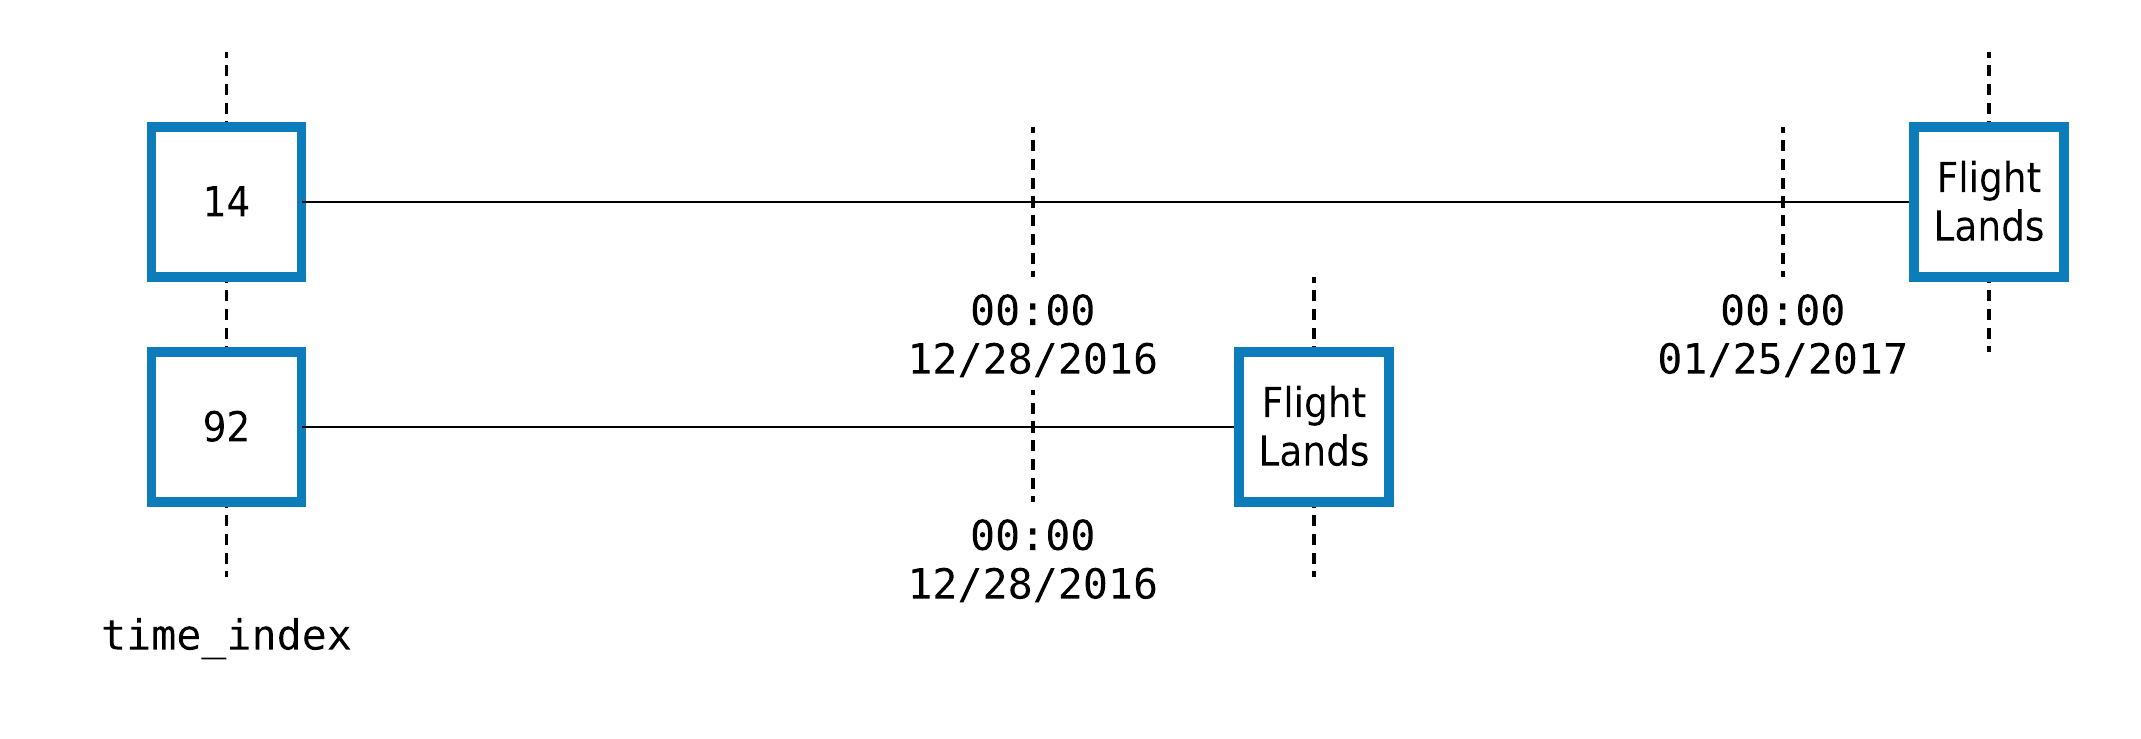
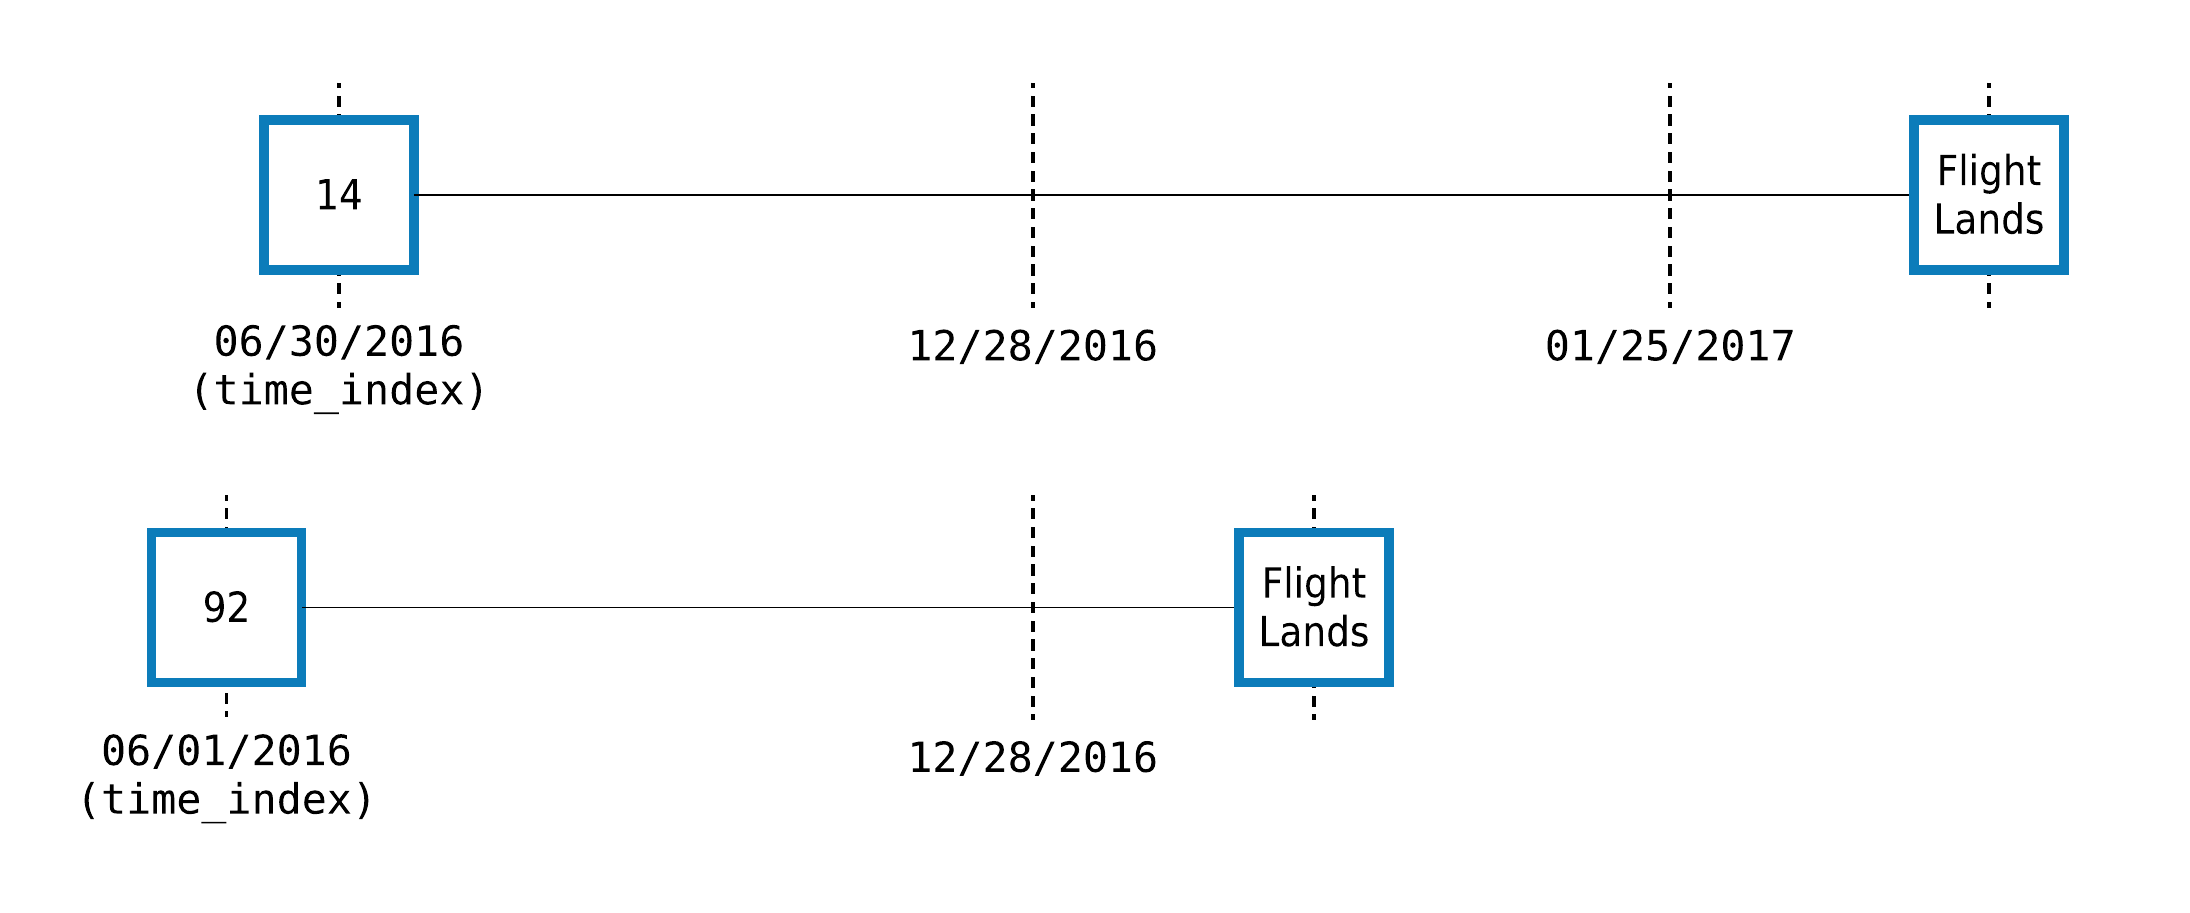
Re-order sections

diff --git a/featuretools/demo/mock_customer.py b/featuretools/demo/mock_customer.py
@@ -25,7 +25,7 @@ def load_mock_customer(n_customers=5, n_products=5, n_sessions=35, n_transaction
                    for _ in range(n_customers)]
 
     customers_df = pd.DataFrame({"customer_id": range(1, n_customers + 1)})
-    customers_df["zip_code"] = choice(["60091", "02139"], n_customers,)
+    customers_df["zip_code"] = choice(["60091", "13244"], n_customers,)
     customers_df["join_date"] = pd.Series(join_dates).dt.round('1s')
     customers_df["date_of_birth"] = pd.Series(birth_dates).dt.round('1d')
 

diff --git a/docs/source/automated_feature_engineering/handling_time.rst b/docs/source/automated_feature_engineering/handling_time.rst
@@ -28,7 +28,7 @@ The first section shows how to handle the complexities that can come up when ass
 
 .. _representing-time:
 
-Representing time in an EntitySet
+Introduction to the Time Index
 ----------------------------------------------------------
 We'll start with the :func:`Mock Customer <demo.load_mock_customer>` entityset.
 
@@ -44,12 +44,56 @@ The ``transactions`` entity has one row for every transaction and a ``transactio
 
     es_mc['customers'].df
 
-Here we have two time columns ``join_date`` and ``date_of_birth``. While either column might be useful for making features, the ``join_date`` should be used as the time index. It represents when the data owner learns about the existence of a given customer. Specifically: *the time index is the first time anything from a row can be known to the dataset owner*. Rows are treated as non-existant prior to the time index. 
+Here we have two time columns ``join_date`` and ``date_of_birth``. While either column might be useful for making features, the ``join_date`` should be used as the time index. It represents when the data owner learns about the existence of a given customer. Generically: *the time index is defined as the first time anything from a row can be known to the dataset owner*. Rows are treated as non-existent prior to the time index. 
 
-In databases, information tends to be written after an event has passed. This can be problematic on the machine learning side: it's often necessary to ignore entire columns to avoid leaking labels. In the main example of this section, we look at how time is used in a dataset from the US Department of Transportation on domestic flights.
+.. important::
 
-Representing time in the Flight Dataset
-~~~~~~~~~~~~~~~~~~~~~~~~~~~~~~~~~~~~~~~~
+    The **time index** is defined as first time anything from a row can be known to the dataset owner.
+
+In databases, information tends to be written after an event has passed. This can be problematic on the machine learning side: it's often necessary to ignore entire columns to avoid leaking labels. If you're interested in learning more, the :ref:`advanced time index <flight-ti>` section below explores how time can used with a dataset from the US Department of Transportation on domestic flights. Before we get there, we're going to show how to make predictions using these time indices.
+
+.. _cutoff-time:
+
+Introduction to Cutoff Times
+--------------------------------------------
+
+For a given :class:`EntitySet <EntitySet>`, it's possible to provide time indices and secondary time that are correct. There is a real time when a row first becomes valid for use and the time index should reflect that reality. In contrast, **there is no "correct" way to make predictions**. There are many valid questions that can be asked at many valid times and the differences between them are philosophical rather than mechanical.
+
+A **cutoff_time** dataframe is a concise way of passing complicated instructions to :func:`Deep Feature Synthesis <dfs>` (DFS). Each row contains a reference id, a time and optionally, a label. For every unique id-time pair, we will create a row of the feature matrix.
+
+.. important::
+
+     A **cutoff_time** dataframe is a concise way of passing complicated instructions to Deep Feature Synthesis.
+
+Let's do a short example. We want to predict whether customers ``1``, ``2`` and ``3`` will spend $500 after ``04:00`` on January 1 by the end of the day. The ``time`` column emulates the way a human would make a historical prediction, it is an instruction to not use any future information constructing that row even if we have it in our entityset. In this case, we're making predictions for all three customers at the same time, ``2014-1-1 04:00`` so we set that as the second column. We have also checked that ``1`` and ``2`` will spend $500 while customer ``3`` will not, so we include those labels as a third column.
+
+.. image:: ../images/retail_ct.png
+   :width: 400 px
+   :alt: retail cutoff time diagram
+   :align: center
+
+We will use all of the information between the ``time_index`` of rows ``1``, ``2`` and ``3`` and the prediction time ``04:00 2014-1-1`` to make predictions about what will happen for the rest of the day.
+
+.. ipython:: python
+
+    ct = pd.DataFrame({'customer_id': [1, 2, 3], 
+                       'time': pd.to_datetime(['2014-1-1 04:00', 
+                                               '2014-1-1 04:00',
+                                               '2014-1-1 04:00']),
+                       'label': [True, True, False]})
+    ct
+    fm, features = ft.dfs(entityset=es_mc, 
+                          target_entity='customers', 
+                          cutoff_time=ct, 
+                          cutoff_time_in_index=True)
+    fm
+
+We made 74 features for the three customers using only data whose time index was before the cutoff time. Since you can specify the prediction time for every row, you have a lot of control over which data will be used for a given row of your feature matrix. An advanced use of cutoff times can be found in the :ref:`second part <flight-ct>` of the next section.
+
+.. _flight-ti:
+
+Advanced Time Usage
+-------------------------
 The :func:`Flights <demo.load_flight>` entityset is a prototypical example of a dataset where an individual row can happen over time. Each trip is recorded in a ``trip_logs`` entity, and has many times associated to it.
 
 .. ipython:: python
@@ -103,44 +147,12 @@ As an exercise, take a minute to think about which of the twenty two columns her
 
 An entity can have a third, hidden, time index called the ``last_time_index``. More details for that can be found in the `other temporal workflows <#training-window-and-the-last-time-index>`_ section.
 
-
-.. _cutoff-time:
-
-Using a cutoff time dataframe
------------------------------------------
-
-For a given :class:`EntitySet <EntitySet>`, it's possible to provide time indices and secondary time that are correct. There is a real time when a row first becomes valid for use and the time index should reflect that reality. In contrast, **there is no "correct" way to make predictions**. There are many valid questions that can be asked at many valid times and the differences between them are philosophical rather than mechanical.
-
-A **cutoff_time** dataframe is a concise way of passing complicated instructions to :func:`Deep Feature Synthesis <dfs>` (DFS). Each row contains a reference id, a time and optionally, a label. For every unique id-time pair, we will create a row of the feature matrix.
-
-Let's do a short example. We want to predict whether customers ``1``, ``2`` and ``3`` will spend $500 after ``04:00`` on January 1 by the end of the day. The ``time`` column emulates the way a human would make a historical prediction, it is an instruction to not use any future information constructing that row even if we have it in our entityset. In this case, we're making predictions for all three customers at the same time, ``2014-1-1 04:00`` so we set that as the second column. We have also checked that ``1`` and ``2`` will spend $500 while customer ``3`` will not, so we include those labels as a third column.
-
-.. image:: ../images/retail_ct.png
-   :width: 400 px
-   :alt: retail cutoff time diagram
-   :align: center
-
-We will use all of the information between the ``time_index`` of rows ``1``, ``2`` and ``3`` and the prediction time ``04:00 2014-1-1`` to make predictions about what will happen for the rest of the day.
-
-.. ipython:: python
-
-    ct = pd.DataFrame({'customer_id': [1, 2, 3], 
-                       'time': pd.to_datetime(['2014-1-1 04:00', 
-                                               '2014-1-1 04:00',
-                                               '2014-1-1 04:00']),
-                       'label': [True, True, False]})
-    ct
-    fm, features = ft.dfs(entityset=es_mc, 
-                          target_entity='customers', 
-                          cutoff_time=ct, 
-                          cutoff_time_in_index=True)
-    fm
-
-We made 74 features for the three customers using only data whose time index was before the cutoff time. Since you can specify the prediction time for every row, you have a lot of control over which data will be used for a given row of your feature matrix.
+.. _flight-ct:
 
 Flight Predictions
 ~~~~~~~~~~~~~~~~~~~
-Let's make features at some varying times in the flight example. Trip ``14`` is a flight from CLT to PHX on Janulary 31 2017 and trip ``92`` is a flight from PIT to DFW on January 1. We can set any cutoff time before the flight is scheduled to depart, emulating how we would make the prediction at that point in time. 
+
+Let's make features at some varying times in the flight example. Trip ``14`` is a flight from CLT to PHX on January 31 2017 and trip ``92`` is a flight from PIT to DFW on January 1. We can set any cutoff time before the flight is scheduled to depart, emulating how we would make the prediction at that point in time. 
 
 We set two cutoff times for trip ``14`` at two different times: one which is more than a month before the flight and another which is only 5 days before. For trip ``92``, we'll only set one cutoff time three days before it is scheduled to leave. 
 
